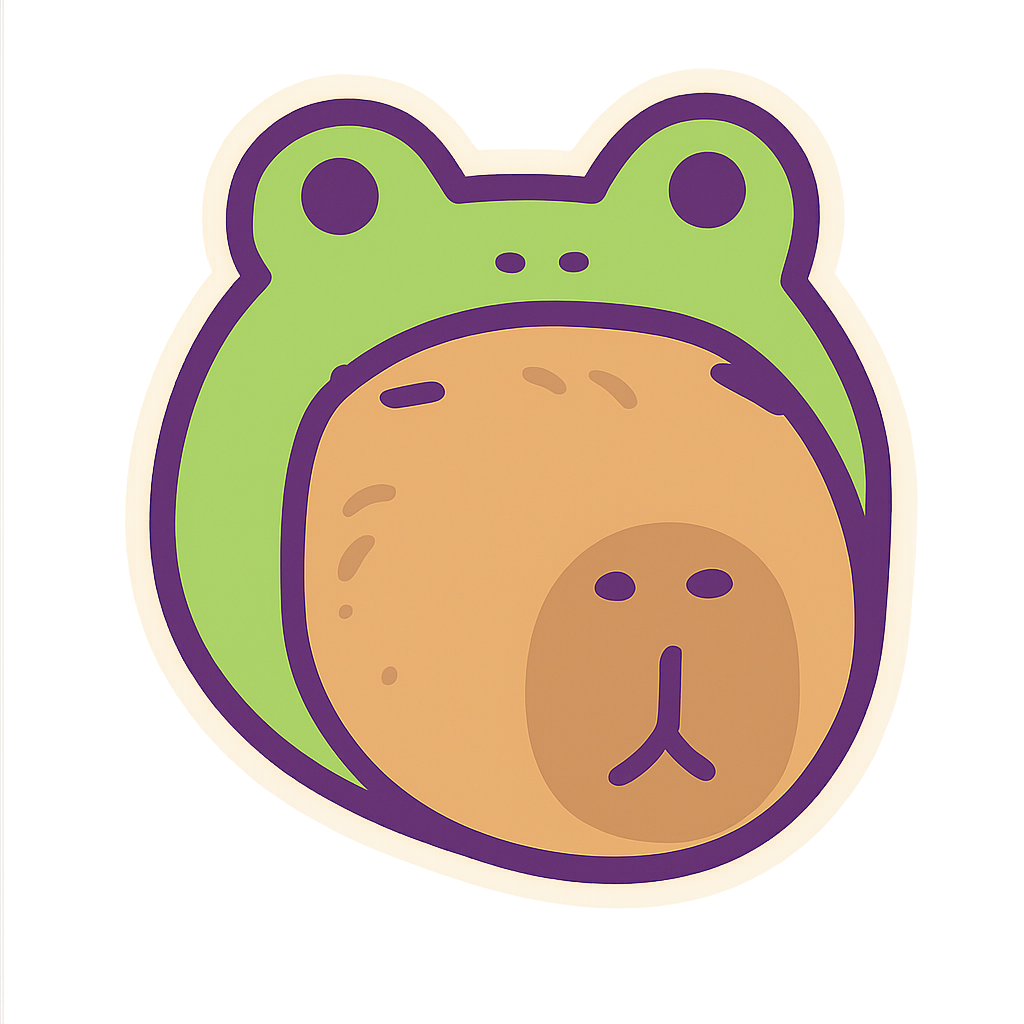
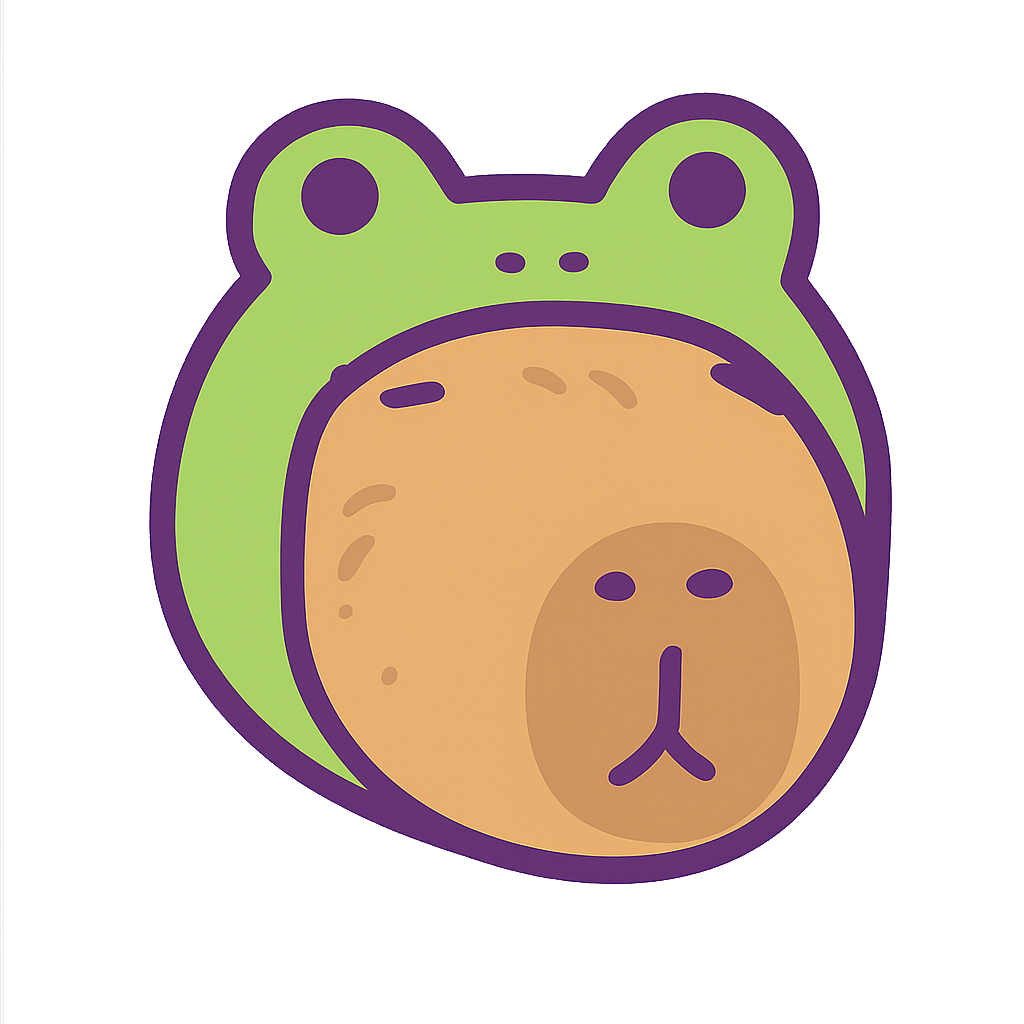
fix small stuff

Changed region(s): [[0.125, 0.0625, 0.9062, 0.9062]]

diff --git a/src/components/CharacterProgression.tsx b/src/components/CharacterProgression.tsx
@@ -5,6 +5,7 @@ import { useGame } from "../game/useGame";
 import { useCharacterImage } from "../hooks/useCharacterImage";
 import { CharacterClass } from "../types/GameTypes";
 import { BiJoystick } from "react-icons/bi";
+import { clamp } from "lodash";
 
 interface CharacterProgressionProps {
   setShowModes: (showModes: boolean) => void;
@@ -53,8 +54,10 @@ interface CharacterItemProps {
   totalCharacters: number;
 }
 
-const CharacterItem: React.FC<CharacterItemProps> = ({ character }) => {
+const CharacterItem: React.FC<CharacterItemProps> = ({ character, index }) => {
   const characterImage = useCharacterImage(character.name);
+
+  const size = `${clamp(2 + character.tier * 0.1, 2, 3)}em`;
 
   return (
     <Box display="flex" alignItems="center" justifyContent="center" position="relative" flexShrink={0}>
@@ -62,7 +65,9 @@ const CharacterItem: React.FC<CharacterItemProps> = ({ character }) => {
         <Image
           src={characterImage}
           alt={character.displayName}
-          h="2.5em"
+          h={size}
+          w={index === 0 ? size : "auto"}
+          objectFit="contain"
           onError={(e) => {
             // Fallback to colored circle if image fails to load
             const target = e.target as HTMLImageElement;

diff --git a/src/utils/ShapeDetector.ts b/src/utils/ShapeDetector.ts
@@ -4,7 +4,7 @@ export class ShapeDetector {
   private static readonly CANVAS_SIZE = 100; // Size of temporary canvas for analysis
   private static readonly SAMPLE_RATE = 4; // Sample every Nth pixel for performance
   private static readonly MIN_POINTS = 8; // Minimum points for polygon
-  private static readonly MAX_POINTS = 16; // Maximum points for polygon
+  private static readonly MAX_POINTS = 48; // Maximum points for polygon
 
   /**
    * Detects the shape of a character image and creates a physics body
